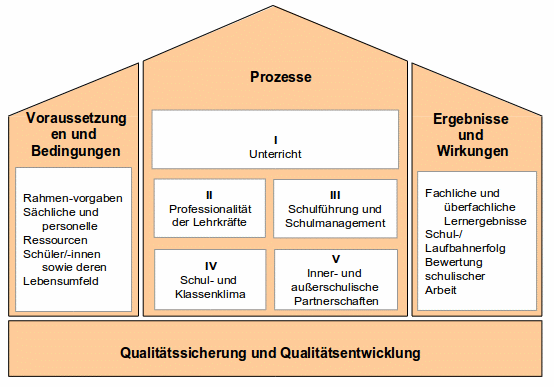
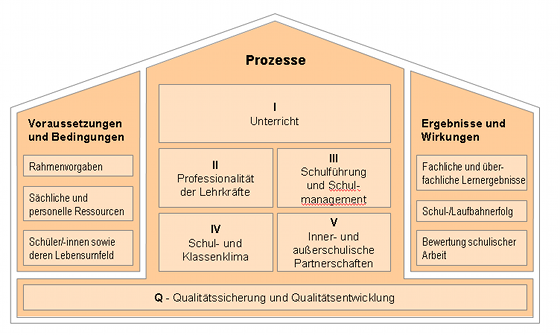
Neues Q-Haus

diff --git a/usr/share/linuxmuster-portfolio/lib/tpl/portfolio/ospversion.php b/usr/share/linuxmuster-portfolio/lib/tpl/portfolio/ospversion.php
@@ -1,2 +1,2 @@
 <?php
-print "1.3.0-2";
+print "1.3.0-4";
